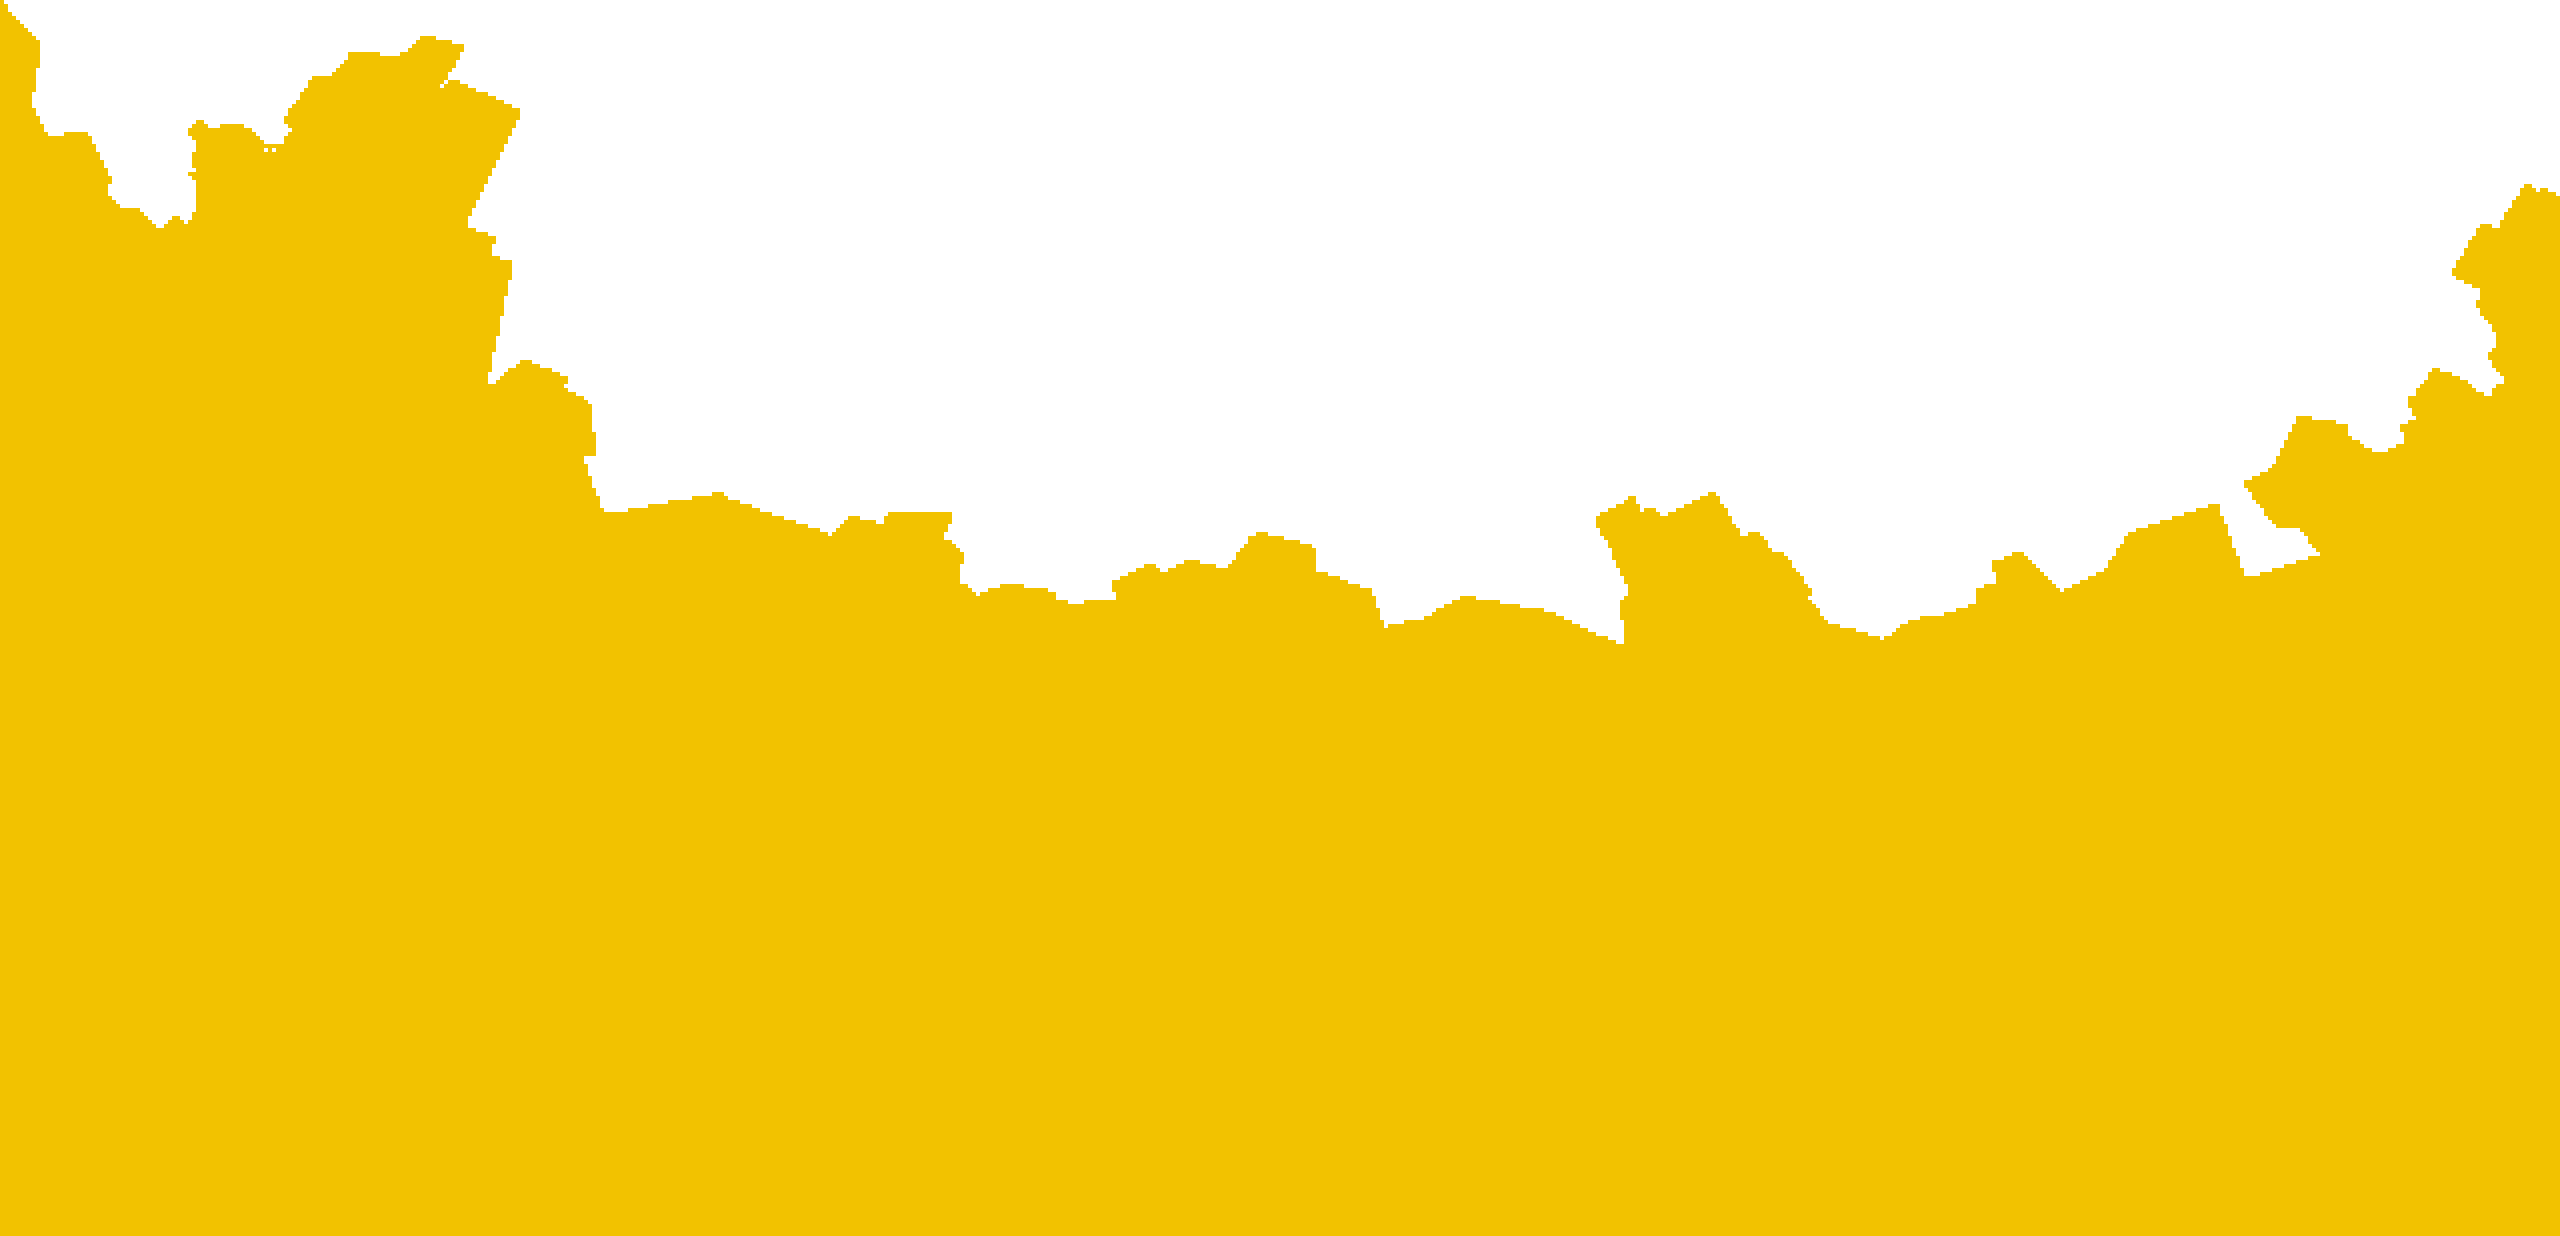
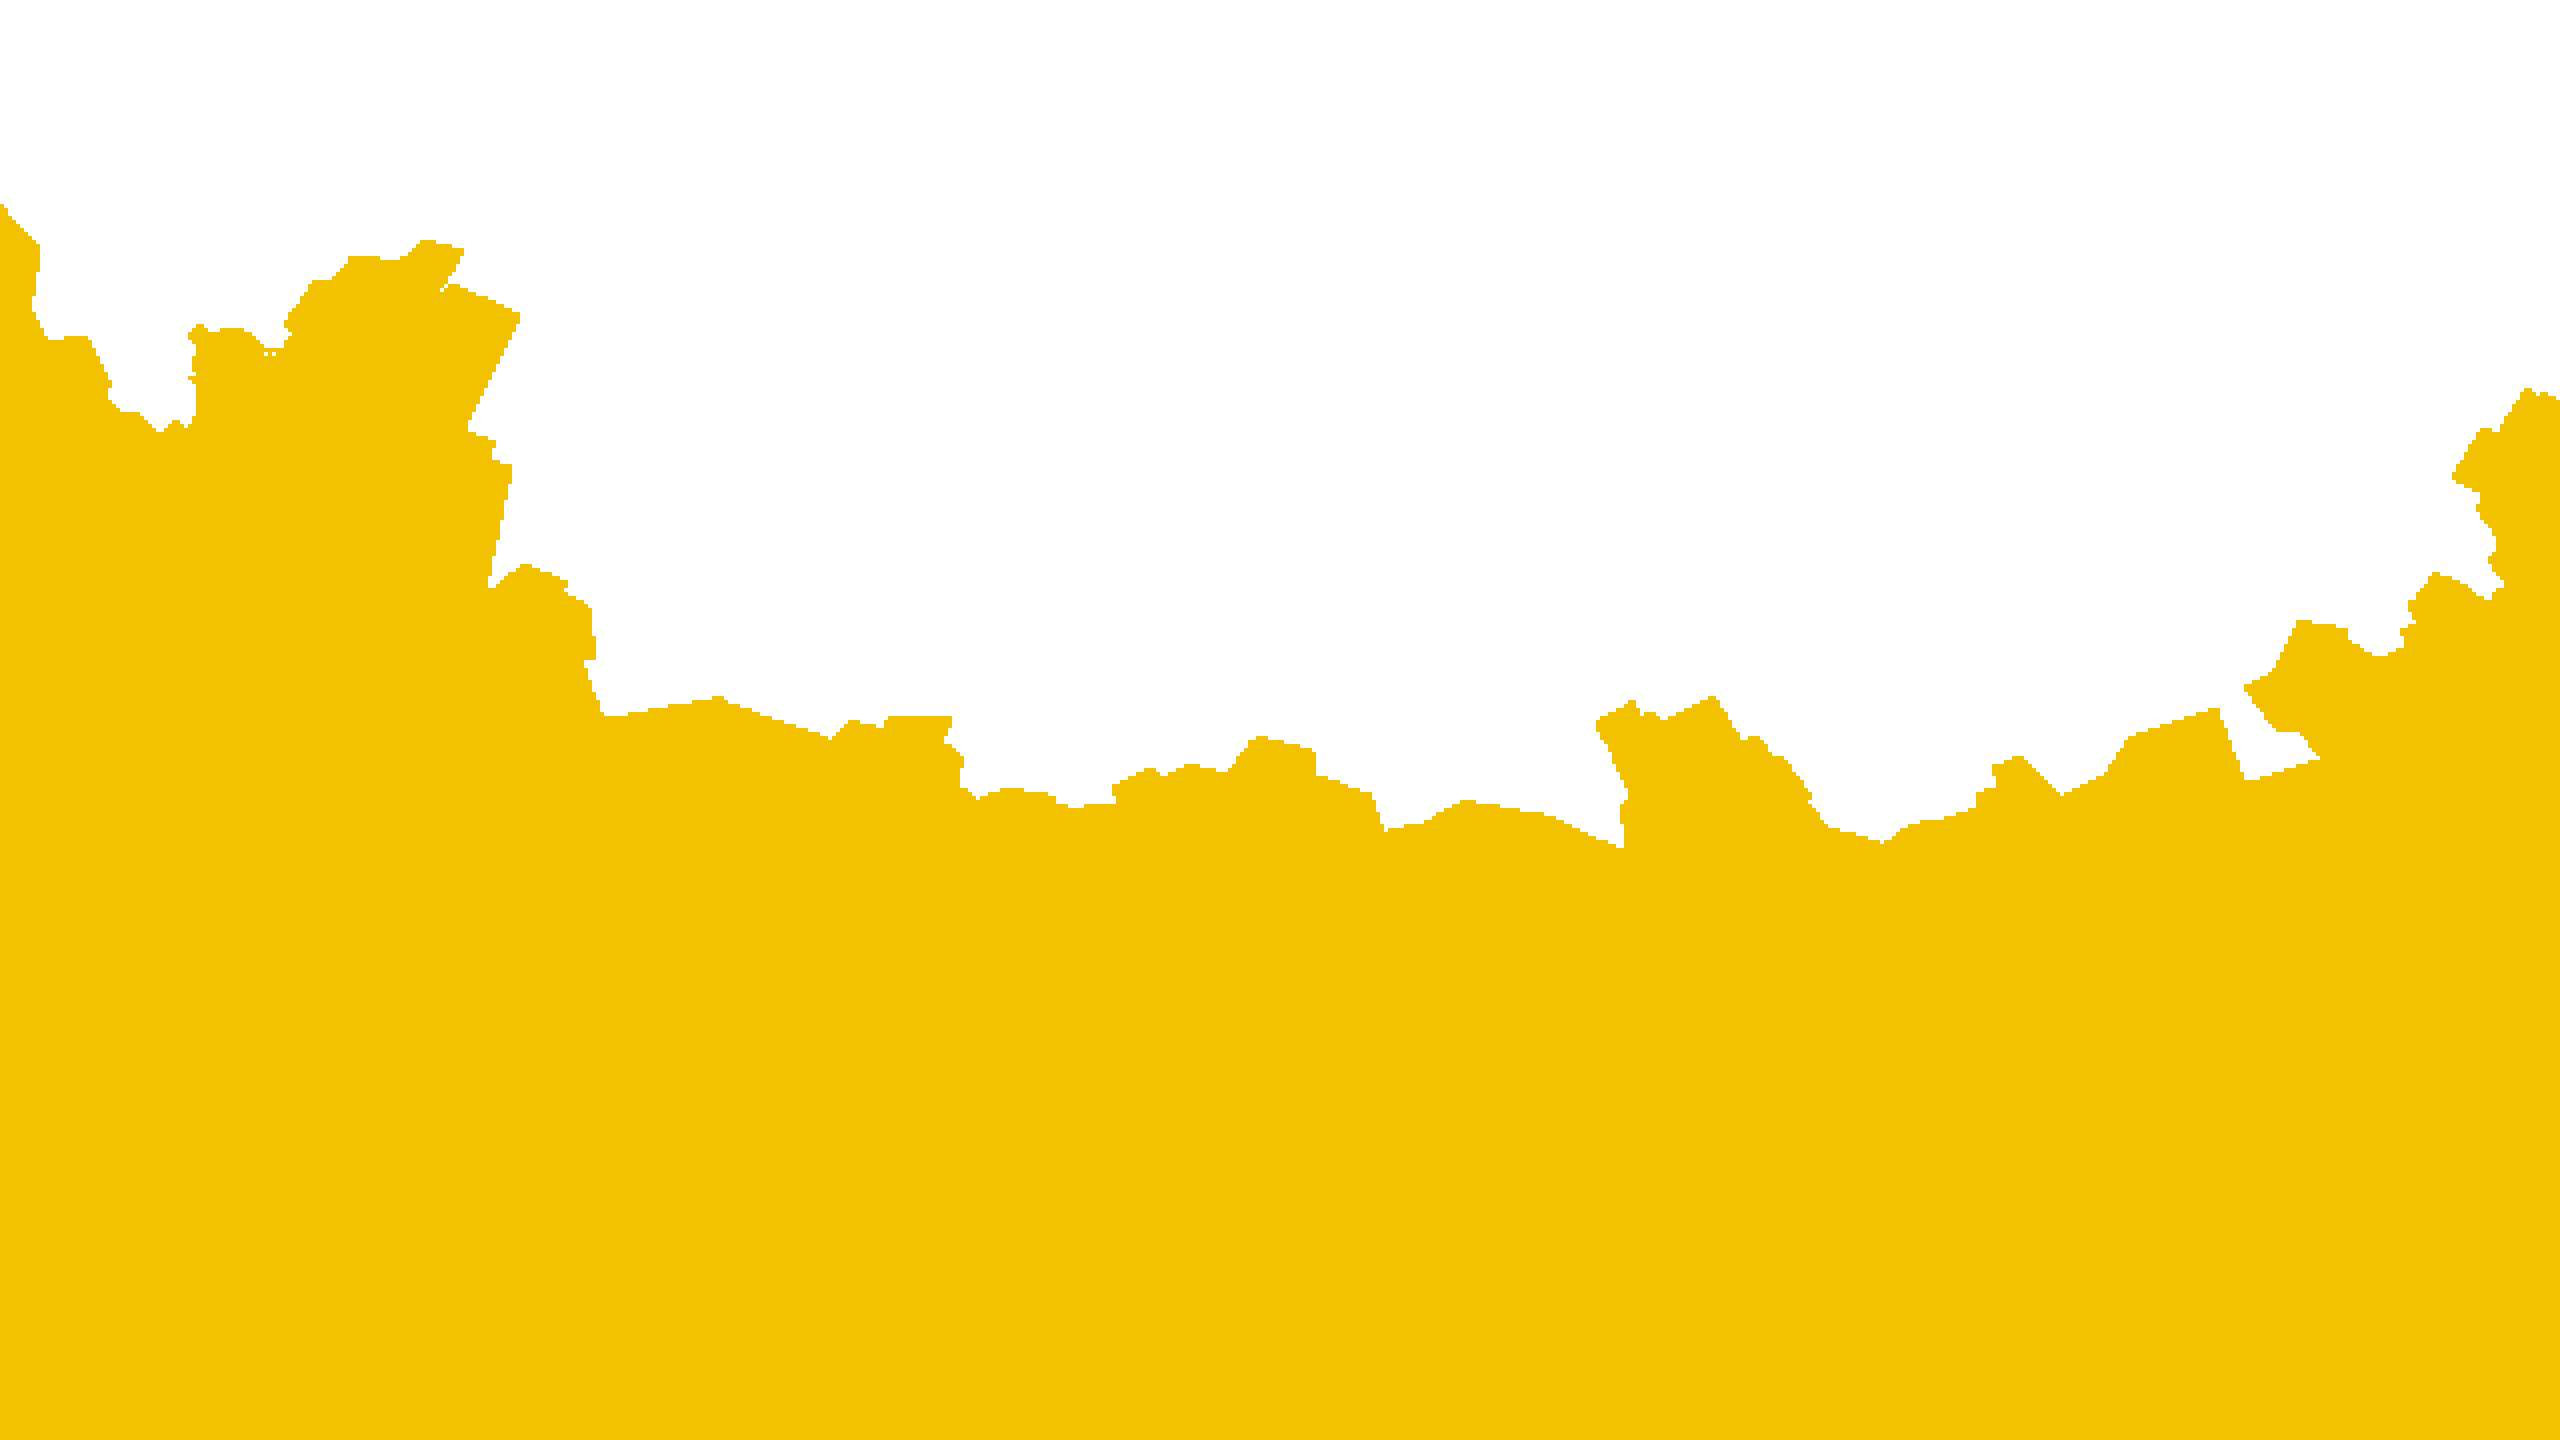
parallax and homescreen improvenments - start gallery

Changed region(s): [[0.1875, 0.1537, 1.0, 0.5841], [0.0, 0.0, 0.2188, 0.3074]]

diff --git a/src/app/gallery/page.tsx b/src/app/gallery/page.tsx
@@ -1,27 +1,50 @@
-import GalleryChoicesCarousel from "../../components/GalleryChoicesCarousel";
-// import gameArtGif from "game_art/game_art_1.gif"
+import GallerySection from "./components/GallerySection";
 
 function GalleryPage() {
+  const game_art_images = [
+    {
+      id: 1,
+      src: "/gallery/game_art/1.png",
+      title: "RPG Assets",
+      description:
+        "Assets that I’m building as a personal project.\nThe aim is to create a bright and warm place that you'd like to explore",
+    },
+    {
+      id: 2,
+      src: "/gallery/game_art/2.png",
+      title: "MiniKnight Mockup",
+      description:
+        "Here's a mock-up I made in 2022. It's inspired by dungeon crawlers like “The Binding of Isaac”.\n\nMy goal was to practice this kind of perspective.",
+    },
+    {
+      id: 3,
+      src: "/gallery/game_art/3.png",
+      title: "Side-view dungeon assets",
+      description:
+        "This is one of my Itch.io asset packs.\nThe pack is relatively low-key, which makes the scenery pop and even more so for the only coloured elements, the collectibles.",
+    },
+    {
+      id: 4,
+      src: "/gallery/game_art/4.png",
+      title: "Skull Archipelago",
+      description:
+        "I made this for a monthly challenge, “Pixel encore”.\nThe aim was to give it a treasure map and video game map look.",
+    },
+    {
+      id: 5,
+      src: "/gallery/game_art/5.png",
+      title: "The abandoned building",
+      description:
+        "Here's an example of the kind of building I can do.\nThe biggest challenge was to render the roof tiles while maintaining a blocky style.",
+    },
+  ];
   return (
     <div className="w-full flex-1 my-4">
-      <div>
-        <div>
-          <p className="text-xl">Game art</p>
-          <div className="h-1 w-6 bg-purple rounded-full"></div>
-        </div>
-
-        <div className="w-full flex  gap-6">
-          <div className="min-w-2/5 grow flex flex-col gap-6">
-            <GalleryChoicesCarousel folder="game_art"/>
-            <div className="bg-purple rounded-lg">Liste</div>
-            <div className="rounded-lg bg-cream grow">description</div>
-          </div>
-          <div className="bg-purple rounded-lg overflow-hidden">
-            {/* <Image src={gameArtGif.src}/> */}
-          </div>
-
-        </div>
-      </div>
+      <GallerySection
+        title="Game art"
+        type="game_art"
+        images={game_art_images}
+      />
     </div>
   );
 }

diff --git a/src/components/ParallaxBlock.tsx b/src/components/ParallaxBlock.tsx
@@ -38,11 +38,11 @@ export default function ParallaxBlock() {
     >
       <Image
         src="/parallax_landscape/sun.png"
-        className="absolute bottom-70 left-10 w-auto object-contain scale-110"
+        className="absolute -bottom-0 w-full object-contain scale-110"
         style={{ transform: `${parallaxTransform[3]}` }}
         alt=""
-        height={148}
-        width={148}
+        height={1488}
+        width={2560}
       />
       <Image
         src="/parallax_landscape/4.png"
@@ -61,12 +61,12 @@ export default function ParallaxBlock() {
         width={2560}
       />
       <Image
-        src="/parallax_landscape/Logo_illu.png"
-        className="absolute bottom-50 right-1/2 top-1/6 w-auto h-auto object-contain scale-110 translate-x-1/2"
+        src="/parallax_landscape/logo_illu.png"
+        className="absolute -bottom-0 w-full object-contain scale-110"
         style={{ transform: `${parallaxTransform[2]}` }}
         alt=""
-        height={348}
-        width={420}
+        height={1488}
+        width={2560}
       />
       <Image
         src="/parallax_landscape/2.png"
@@ -78,7 +78,7 @@ export default function ParallaxBlock() {
       />
       <Image
         src="/parallax_landscape/1.png"
-        className="absolute -bottom-40 w-full object-contain scale-110"
+        className="absolute -bottom-0 w-full object-contain scale-110"
         style={{ transform: `${parallaxTransform[0]}` }}
         alt=""
         height={1488}

diff --git a/src/app/gallery/components/GallerySection.tsx b/src/app/gallery/components/GallerySection.tsx
@@ -1,0 +1,51 @@
+"use client";
+import Image from "next/image";
+import UiTitle from "../../../components/UiTitle";
+import { useState } from "react";
+
+type GalleryImage = {
+  id: number;
+  src: string;
+  title: string;
+  description: string;
+};
+
+function GallerySection({
+  title,
+  type,
+  images,
+}: {
+  title: string;
+  type: string;
+  images: GalleryImage[];
+}) {
+  const [selectedImage, setSelectedImage] = useState(1);
+
+  return (
+    <div className="flex items-center flex-col group uppercase tracking-tight relative">
+      <div className="flex flex-col gap-4">
+        <div className="bg-white shadow-custom rounded-lg p-4">
+          <UiTitle title={title} color="cyan" variant="black" />
+        </div>
+
+        <div className="w-full grid grid-cols-5 grid-rows-3">
+          <div className="col-span-3 row-span-2 aspect-video rounded-lg overflow-hidden shadow-custom">
+            <Image
+              src={`/gallery/${type}/${selectedImage}.png`}
+              className="w-full"
+              alt=""
+              height={900}
+              width={1600}
+            />
+          </div>
+
+          {images.map((e, i) => (
+            <Image src={`/gallery/${type}/${i}.png`} key={i} alt="" />
+          ))}
+        </div>
+      </div>
+    </div>
+  );
+}
+
+export default GallerySection;

diff --git a/src/app/layout.tsx b/src/app/layout.tsx
@@ -2,7 +2,7 @@ import type { Metadata } from "next";
 import "../App.css";
 import Header from "../components/Header";
 import Footer from "../components/Footer";
-import { Lexend } from 'next/font/google'
+import { Lexend } from "next/font/google";
 
 export const metadata: Metadata = {
   title: "Xeleph",
@@ -11,8 +11,8 @@ export const metadata: Metadata = {
 };
 
 const lexend = Lexend({
-  subsets: ['latin']
-})
+  subsets: ["latin"],
+});
 
 export default function RootLayout({
   children,
@@ -23,7 +23,7 @@ export default function RootLayout({
     <html lang="en" className={lexend.className}>
       <body>
         <div id="root">
-          <div className="grid grid-rows-[auto_minmax(0px,_1fr)_auto] min-h-screen h-auto p-4 pb-0 max-w-[100rem] m-auto overflow-hidden 2xl:overflow-visible">
+          <div className="grid grid-rows-[auto_minmax(0px,_1fr)_auto] min-h-screen h-auto p-4 pb-0 max-w-[100rem] m-auto overflow-hidden 2xl:overflow-visible 4xl:max-w-[120rem]">
             <Header />
             {children}
             <Footer />

diff --git a/src/app/page.tsx b/src/app/page.tsx
@@ -8,7 +8,7 @@ import ParallaxBlock from "../components/ParallaxBlock";
 
 function HomePage() {
   return (
-    <div className="grid w-full grid-cols-1 lg:grid-cols-6 lg:grid-rows-7 gap-4 my-4 flex-1 min-h-0 min-w-0">
+    <div className="grid w-full grid-cols-1 lg:grid-cols-6 lg:grid-rows-7 gap-4 my-4 flex-1 min-h-0 min-w-0 lg:h-fit ">
       <BaseBlock customClasses="row-span-1 lg:row-span-2 lg:col-span-2">
         <AboutBlock />
       </BaseBlock>
@@ -45,7 +45,7 @@ function HomePage() {
           title="Shop"
           titleColor="yellow"
           shadowed
-          image="/game_art.png"
+          image="/shop_art.png"
         />
       </BaseBlock>
 

diff --git a/src/App.css b/src/App.css
@@ -14,6 +14,8 @@
   --font-sans: "Lexend";
 
   --shadow-custom: 0px 3px 10px rgba(224, 213, 181, 0.5);
+  --breakpoint-3xl: 120rem;
+  --breakpoint-4xl: 140rem;
 }
 
 :root {
